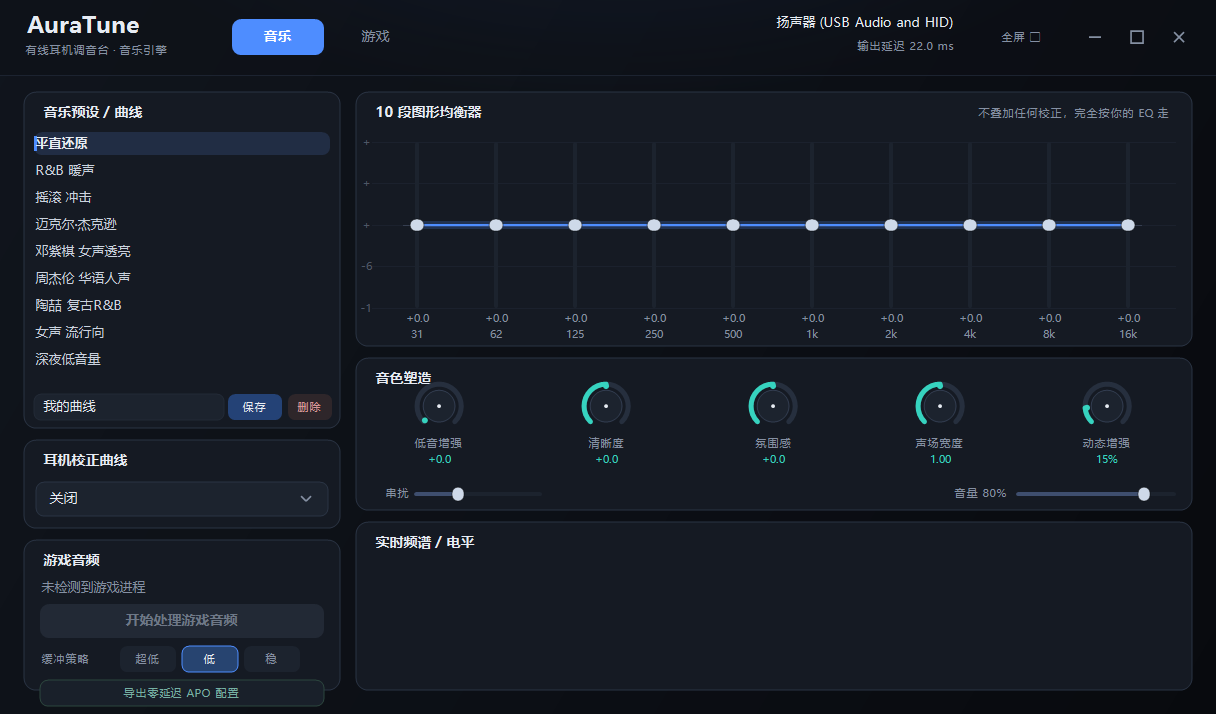
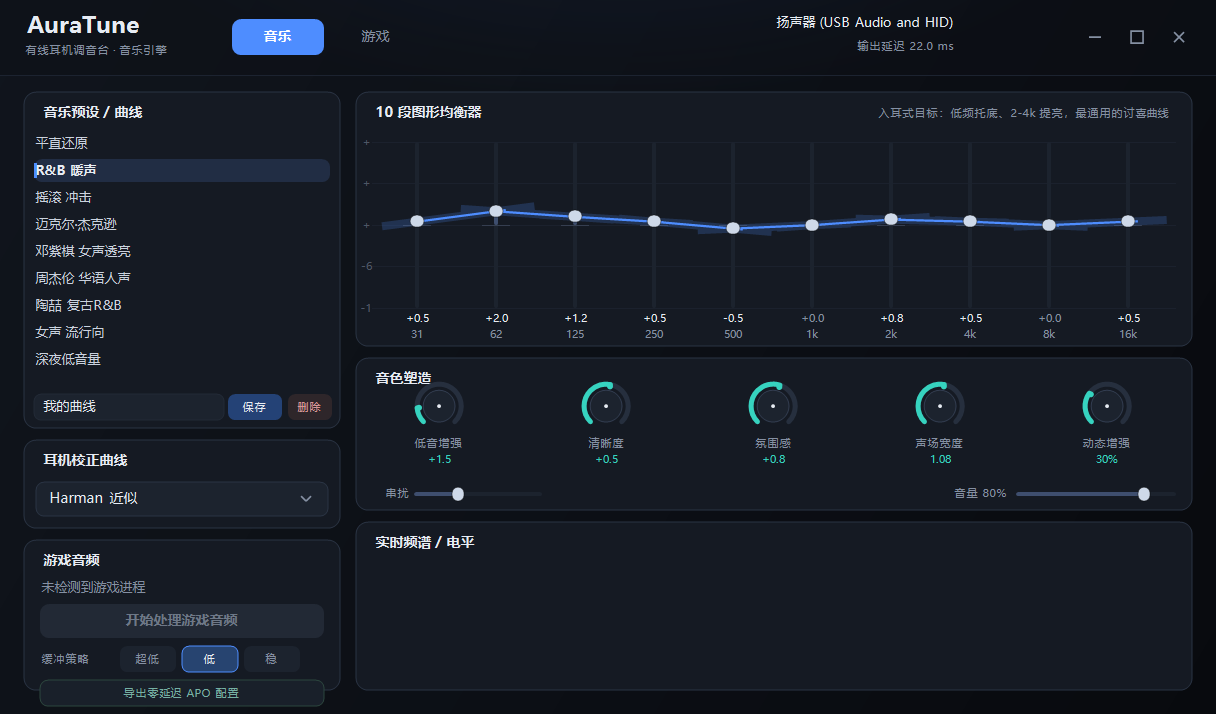
ui: 删掉带文字的「全屏」按钮，标题栏只留 Win10 三键；全屏改走 F11/Alt+Enter，并修复最小化状态下进全屏不显示

diff --git a/src/ui.cpp b/src/ui.cpp
@@ -44,7 +44,7 @@ enum : int {
 
 struct Layout {
     RECT topbar;
-    RECT tabMusic, tabGame, btnMin, btnClose, btnMax, btnFull;
+    RECT tabMusic, tabGame, btnMin, btnClose, btnMax;
     RECT presetPanel, corrPanel, gamePanel, corrBox;
     RECT nameBox, saveBtn, delBtn;
     int  presetRef[64] = {}; int presetKind[64] = {}; int presetN = 0;
@@ -253,7 +253,6 @@ static void RebuildLayout(App& a) {
     L.topbar = Rc(0, 0, W, 76);
     L.tabMusic = Rc(232, 19, 92, 36);
     L.tabGame  = Rc(330, 19, 92, 36);
-    L.btnFull  = Rc(W - 240, 20, 92, 34);
     // Win10 同款顺序：最小化 → 最大化 → 关闭
     L.btnMin   = Rc(W - 138, 20, 34, 34);
     L.btnMax   = Rc(W - 96, 20, 34, 34);
@@ -373,6 +372,7 @@ static void ToggleMaximize() {
 static void ToggleFullscreen() {
     if (!A.hwnd) return;
     if (!A.fullscreen) {
+        if (IsIconic(A.hwnd)) ShowWindow(A.hwnd, SW_RESTORE);   // 从最小化直接进全屏也要先恢复
         A.prevPl.length = sizeof(A.prevPl);
         GetWindowPlacement(A.hwnd, &A.prevPl);
         A.prevStyle = GetWindowLongPtrW(A.hwnd, GWL_STYLE);
@@ -633,15 +633,6 @@ static void Paint(App& a) {
                 }
             }
             Hit(ID_MAX, L.btnMax);
-
-            {
-                const bool fs = (a.fullscreen != 0);
-                FillRound(gr, L.btnFull, 8, fs ? Color(255, 33, 45, 68)
-                                              : (a.hot == ID_FULL ? COL_PANEL2 : Color(0, 0, 0, 0)));
-                Text(gr, fs ? L"退出全屏" : L"全屏 ▢", a.fTiny, L.btnFull,
-                     fs ? COL_TEXT : (a.hot == ID_FULL ? COL_TEXT : COL_DIM), StringAlignmentCenter);
-            }
-            Hit(ID_FULL, L.btnFull);
 
             FillRound(gr, L.btnClose, 8, a.hot == ID_CLOSE ? Color(255, 130, 44, 44) : Color(0, 0, 0, 0));
             Pen pc(a.hot == ID_CLOSE ? Color(255, 255, 220, 220) : COL_DIM, 1.6f);
@@ -1011,9 +1002,6 @@ static void OnUp(int x, int y) {
         } else if (id == ID_MAX) {
             if (A.fullscreen) ToggleFullscreen();
             ToggleMaximize();
-        } else if (id == ID_FULL) {
-            if (IsZoomed(A.hwnd)) ShowWindow(A.hwnd, SW_RESTORE);
-            ToggleFullscreen();
         } else if (id == ID_TAB_MUSIC) {
             SwitchMode(MODE_MUSIC);
         } else if (id == ID_TAB_GAME) {

diff --git a/README.md b/README.md
@@ -29,8 +29,8 @@
 ### 纯调音工具，不做播放器
 - 本版本**去掉了内置播放器**：你有自己的音乐软件，AuraTune 只负责调音（游戏音频走进程捕获，音乐软件由 APO 路径接管）。
 - 实时 48 条频谱 + 电平表 + 增益衰减显示（电平框按窗口高度自适应，正常窗口下就有足够高度）。
-- 标题栏按钮按 Windows 10 习惯排列：**最小化 → 最大化 → 关闭**，全屏按钮在它们左侧。
-- 最大化 / 全屏（按钮 / F11 / Alt+Enter / 双击标题栏）都按**工作区**取尺寸，**不会盖住底部任务栏**；窗口默认 16:9。
+- 标题栏只保留三个按钮，按 Windows 10 习惯排列：**最小化 → 最大化 → 关闭**（带文字的「全屏」按钮已移除）。
+- 全屏用 **F11 / Alt+Enter**（Esc 或再按 F11 退出），最大化与全屏都按**工作区**取尺寸，**不会盖住底部任务栏**；窗口默认 16:9。
 - 关窗可最小化到系统托盘（托盘菜单：显示主界面 / 切换模式 / 退出）。
 - 小屏自适应布局：窗口最小 960×620，面板与控件按高度自动收缩，1366×768 也不会有按不到的按钮。
 - 切模式不再卡顿：ini 写入改成延迟合并（700ms 内的连续修改只写一次），后台缓冲按尺寸缓存，定时器只重画频谱与提示条。
@@ -96,7 +96,7 @@ g++ -std=c++17 -O2 build/*.o -o build/AuraTune.exe -municode -mwindows ^
 
 ## 更新日志
 
-- **v1.1**：新增自定义曲线（命名 / 保存 / 删除，ini 持久化）；新增 4 套 3A 游戏预设；移除内置播放器；标题栏按钮改为 Windows 10 排列（最小化 / 最大化 / 关闭）；电平框加高；切换模式不再卡顿（延迟合并写 ini + 缓冲缓存 + 局部重绘）；全屏 / 最大化按工作区取尺寸，露出任务栏；窗口默认 16:9，最小 960×620。
+- **v1.1**：新增自定义曲线（命名 / 保存 / 删除，ini 持久化）；新增 4 套 3A 游戏预设；移除内置播放器；标题栏只保留 Windows 10 三键（最小化 / 最大化 / 关闭），删除带文字的「全屏」按钮（F11 / Alt+Enter 仍可全屏）；电平框加高；切换模式不再卡顿（延迟合并写 ini + 缓冲缓存 + 局部重绘）；全屏 / 最大化按工作区取尺寸，露出任务栏；窗口默认 16:9，最小 960×620。
 - **v1.0**：首个版本。
 
 ## 许可
